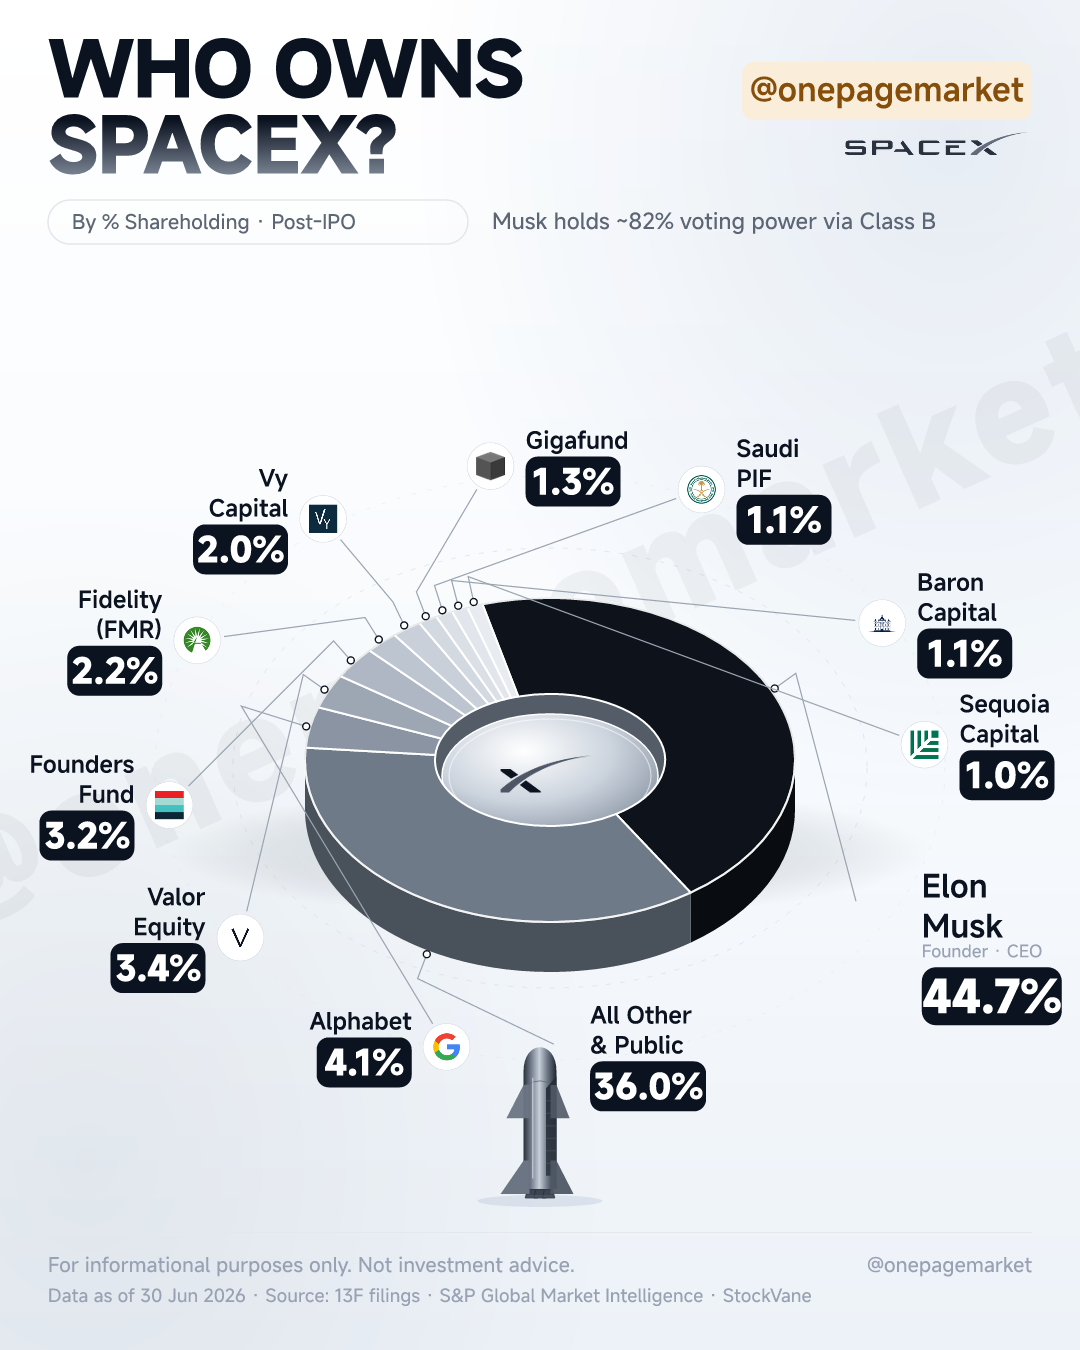
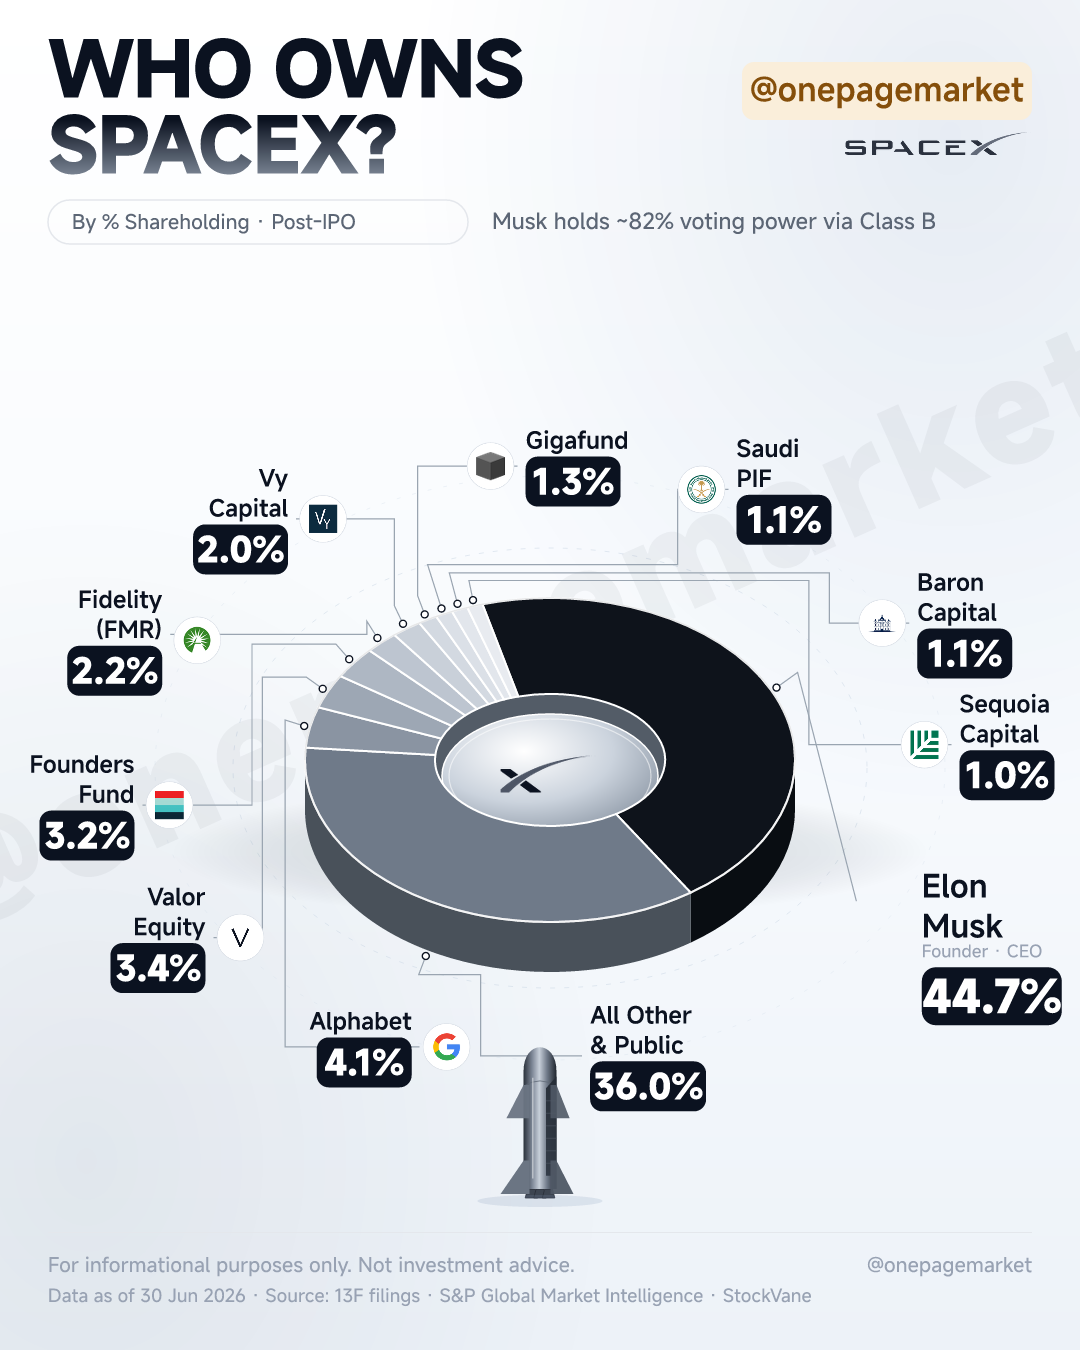
SPCX v5 leader lines: orthogonal (short exit diag -> H/V staircase, 3 shape variants A/B/C), per-label route search with ring-clearance + label-box + drawn-seg separation checks, hardest-first draw order

Changed region(s): [[0.2139, 0.4667, 0.3361, 0.6222], [0.3667, 0.4044, 0.5194, 0.4667], [0.7333, 0.4978, 0.7639, 0.56]]

diff --git a/scripts/build_ownership_spcx.js b/scripts/build_ownership_spcx.js
@@ -384,39 +384,148 @@ ORBIT.slots.forEach((sl) => {
   if (process.env.DIAG) console.log(`  ${sl.s.name.padEnd(20)} th=${sl.th.toFixed(1).padStart(6)} ed=${ed.toFixed(3)}`);
 });
 
-function drawOrbitLabel(sl) {
-  const { s, th, badgeC, bsize, opt } = sl;
+/* --- 引導線：橫平豎直（moneywise 式）：斜段出環 → 垂直段 → 水平段接徽章。
+       逐標籤搜索路徑（短刺長度 × 車道橫移 × 接點高度），三重檢測：
+       ① 不切進環體（下半圓計入側壁厚度）② 不穿其他標籤塊 ③ 不與已畫線重疊。
+       全部候選失敗才退回純斜線。 --- */
+const distPtSeg = (px0, py0, x1, y1, x2, y2) => {
+  const dx = x2 - x1, dy = y2 - y1;
+  const L2 = dx * dx + dy * dy || 1;
+  const t = Math.max(0, Math.min(1, ((px0 - x1) * dx + (py0 - y1) * dy) / L2));
+  return Math.hypot(px0 - (x1 + dx * t), py0 - (y1 + dy * t));
+};
+const drawnSegs = [];
+const segPts = (x1, y1, x2, y2, cb) => {
+  const n = Math.max(2, Math.round(Math.hypot(x2 - x1, y2 - y1) / 9));
+  for (let k = 0; k <= n; k++) cb(x1 + (x2 - x1) * k / n, y1 + (y2 - y1) * k / n);
+};
+const hitRing = (x, y) => {
+  const ryE = (y > CY ? RY + DEPTH : RY) + 3;
+  return ((x - CX) / (RX + 3)) ** 2 + ((y - CY) / ryE) ** 2 < 1;
+};
+const segClear = (x1, y1, x2, y2, slots, self, gap) => {
+  let ok = true;
+  segPts(x1, y1, x2, y2, (x, y) => {
+    if (!ok) return;
+    if (x < 14 || x > 1066 || y < 256 || y > 1222 || hitRing(x, y)) { ok = false; return; }
+    for (const so of slots) {
+      if (so === self) continue;
+      const b = so.box;
+      if (x > b.x0 - gap && x < b.x1 + gap && y > b.y0 - gap && y < b.y1 + gap) { ok = false; return; }
+    }
+  });
+  return ok;
+};
+const segFree = (x1, y1, x2, y2) => {
+  const thr = Math.hypot(x2 - x1, y2 - y1) > 120 ? 7 : 3;   // 長線段間距要拉開，避免視覺重疊
+  for (const sg of drawnSegs) {
+    let bad = false;
+    segPts(x1, y1, x2, y2, (x, y) => { if (distPtSeg(x, y, sg[0], sg[1], sg[2], sg[3]) < thr) bad = true; });
+    if (bad) return false;
+  }
+  return true;
+};
+
+function drawOrbitLabel(sl, slots) {
+  const { s, badgeC, bsize, opt } = sl;
   // 錨點（真實扇區中點，下半圓移到側壁底）
   const t0 = rad(s.aMid);
-  const ex = px(s.aMid, RX + 4);
-  let ey = py(s.aMid, RY + 4);
-  if (Math.sin(t0) > 0) ey += DEPTH;
-  // 徑向短刺：沿橢圓外法線向外；長度自適應——保證「刺尖 K → 徽章」線段不切進環體
+  const ax = px(s.aMid, RX + 6);
+  let ay = py(s.aMid, RY + 6);
+  if (Math.sin(t0) > 0) ay += DEPTH;
   const nl = Math.hypot(RY * Math.cos(t0), RX * Math.sin(t0)) || 1;
   const nx = (RY * Math.cos(t0)) / nl, ny = (RX * Math.sin(t0)) / nl;
-  const ryEff = Math.sin(t0) > 0 ? RY + DEPTH : RY;   // 下半圓計入側壁厚度
-  const inside = (x, y) => ((x - CX) / (RX + 6)) ** 2 + ((y - CY) / (ryEff + 6)) ** 2 < 1;
-  const segClear = (K) => {
-    for (let k = 1; k <= 24; k++) {
-      const x = K[0] + (badgeC.x - K[0]) * k / 24, y = K[1] + (badgeC.y - K[1]) * k / 24;
-      if (inside(x, y)) return false;
-    }
-    return true;
-  };
-  let K = null;
-  for (const stub of [26, 38, 52, 68, 86, 106]) {
-    const cand = [ex + nx * stub, ey + ny * stub];
-    if (cand[0] > 16 && cand[0] < 1064 && cand[1] > 260 && segClear(cand)) { K = cand; break; }
+  const bs = s.badge ? bsize : 0;
+  const m = metrics(s, opt);
+  const nearX = opt.mirror ? badgeC.x - bs / 2 - 4 : badgeC.x + bs / 2 + 4;
+  const span = bs ? bs / 2 - 8 : m.blockH / 2 - 12;
+  const kys = [];                       // 水平段接徽章的高度（優先 badge 正中）
+  for (let d = 0; d <= span + 0.1; d += 6) {
+    kys.push(badgeC.y - d);
+    if (d > 0) kys.push(badgeC.y + d);
   }
-  if (!K) K = [ex + nx * 26, ey + ny * 26];
-  const dxK = K[0] - badgeC.x, dyK = K[1] - badgeC.y;
-  const dl = Math.hypot(dxK, dyK) || 1;
-  const P = [badgeC.x + dxK / dl * (bsize / 2 + 4), badgeC.y + dyK / dl * (bsize / 2 + 4)];
-  a.push(`<polyline points="${ex.toFixed(1)},${ey.toFixed(1)} ${K[0].toFixed(1)},${K[1].toFixed(1)} ${P[0].toFixed(1)},${P[1].toFixed(1)}" fill="none" stroke="#9AA5B1" stroke-width="1.2"/>`);
-  a.push(`<circle cx="${ex.toFixed(1)}" cy="${ey.toFixed(1)}" r="3.5" fill="#FFFFFF" stroke="${C.ink}" stroke-width="1.4"/>`);
+  const STUBS = [20, 32, 46, 62, 80, 100, 124];
+  const SHIFTS = [0, 14, -14, 28, -28, 44, -44, 62, -62, 84, -84, 110, -110, 140, -140, 175, -175, 210, -210, 250, -250, 300, -300, 340, -340, 380, -380, 420, -420];
+  const inXY = (x, y) => x >= 16 && x <= 1064 && y >= 258 && y <= 1218;
+  const trySegs = (raw) => {
+    const segs = raw.filter((sg) => Math.hypot(sg[2] - sg[0], sg[3] - sg[1]) > 1.5);
+    if (!segs.length) return null;
+    for (const sg of segs) {
+      if (!segClear(sg[0], sg[1], sg[2], sg[3], slots, sl, 2) || !segFree(sg[0], sg[1], sg[2], sg[3])) return null;
+    }
+    return segs;
+  };
+  let plan = null;
+  // A：短斜段出環 → 橫移（水平）→ 垂直 → 水平接徽章
+  outerA:
+  for (const t of STUBS) {
+    const Dx = ax + nx * t, Dy = ay + ny * t;
+    if (!inXY(Dx, Dy)) continue;
+    for (const sh of SHIFTS) {
+      const Ex = Dx + sh;
+      if (!inXY(Ex, Dy)) continue;
+      for (const Ky of kys) {
+        const f = trySegs([[ax, ay, Dx, Dy], [Dx, Dy, Ex, Dy], [Ex, Dy, Ex, Ky], [Ex, Ky, nearX, Ky]]);
+        if (f) { plan = f; break outerA; }
+      }
+    }
+  }
+  // B：水平 → 垂直 → 水平（全直角）
+  if (!plan) outerB:
+  for (const sh of SHIFTS) {
+    const x1 = ax + sh;
+    if (!inXY(x1, ay)) continue;
+    for (const Ky of kys) {
+      const f = trySegs([[ax, ay, x1, ay], [x1, ay, x1, Ky], [x1, Ky, nearX, Ky]]);
+      if (f) { plan = f; break outerB; }
+    }
+  }
+  // C：垂直 → 水平 → 垂直接徽章（全直角）
+  if (!plan) outerC:
+  for (const dv of [30, -30, 60, -60, 90, -90, 130, -130, 170, -170, 220, -220, 280, -280, 340, -340]) {
+    const y1 = ay + dv;
+    if (!inXY(ax, y1)) continue;
+    for (const Ky of kys) {
+      const f = trySegs([[ax, ay, ax, y1], [ax, y1, nearX, y1], [nearX, y1, nearX, Ky]]);
+      if (f) { plan = f; break outerC; }
+    }
+  }
+  let pts;
+  if (plan) {
+    pts = [[ax, ay], ...plan.map((sg) => [sg[2], sg[3]])];
+    plan.forEach((sg) => drawnSegs.push(sg));
+  } else {
+    // 後備：自適應徑向短刺 + 直線接徽章
+    let K = null;
+    for (const stub of [26, 38, 52, 68, 86, 106]) {
+      const cand = [ax + nx * stub, ay + ny * stub];
+      if (cand[0] > 16 && cand[0] < 1064 && cand[1] > 260 && !hitRing(cand[0], cand[1]) &&
+          segClear(ax, ay, cand[0], cand[1], slots, sl, 2) &&
+          segClear(cand[0], cand[1], badgeC.x, badgeC.y, slots, sl, 2)) { K = cand; break; }
+    }
+    if (!K) K = [ax + nx * 26, ay + ny * 26];
+    const dl = Math.hypot(K[0] - badgeC.x, K[1] - badgeC.y) || 1;
+    const P = [badgeC.x + (K[0] - badgeC.x) / dl * (bsize / 2 + 4), badgeC.y + (K[1] - badgeC.y) / dl * (bsize / 2 + 4)];
+    pts = [[ax, ay], K, P];
+    drawnSegs.push([ax, ay, K[0], K[1]], [K[0], K[1], P[0], P[1]]);
+  }
+  const poly = pts.map((p) => `${p[0].toFixed(1)},${p[1].toFixed(1)}`).join(' ');
+  a.push(`<polyline points="${poly}" fill="none" stroke="#9AA5B1" stroke-width="1.2"/>`);
+  a.push(`<circle cx="${ax.toFixed(1)}" cy="${ay.toFixed(1)}" r="3.5" fill="#FFFFFF" stroke="${C.ink}" stroke-width="1.4"/>`);
   a.push(block(s, badgeC.x, badgeC.y, opt));
 }
-ORBIT.slots.forEach(drawOrbitLabel);
+// 難度優先繪製：錨點→徽章距離越遠的標籤越容易無路可走，先讓它挑路徑
+let fallbackCount = 0;
+ORBIT.slots
+  .slice()
+  .sort((p, q) => Math.hypot(q.badgeC.x - px(q.s.aMid, RX + 6), q.badgeC.y - py(q.s.aMid, RY + 6)) -
+                  Math.hypot(p.badgeC.x - px(p.s.aMid, RX + 6), p.badgeC.y - py(p.s.aMid, RY + 6)))
+  .forEach((sl) => {
+    const before = drawnSegs.length;
+    drawOrbitLabel(sl, ORBIT.slots);
+    if (drawnSegs.length === before) fallbackCount++;
+  });
+if (fallbackCount) console.log('leader fallback:', fallbackCount);
 
 /* --- 星艦 Starship（底部矢量）--- */
 function starship(cx, baseY, h) {
